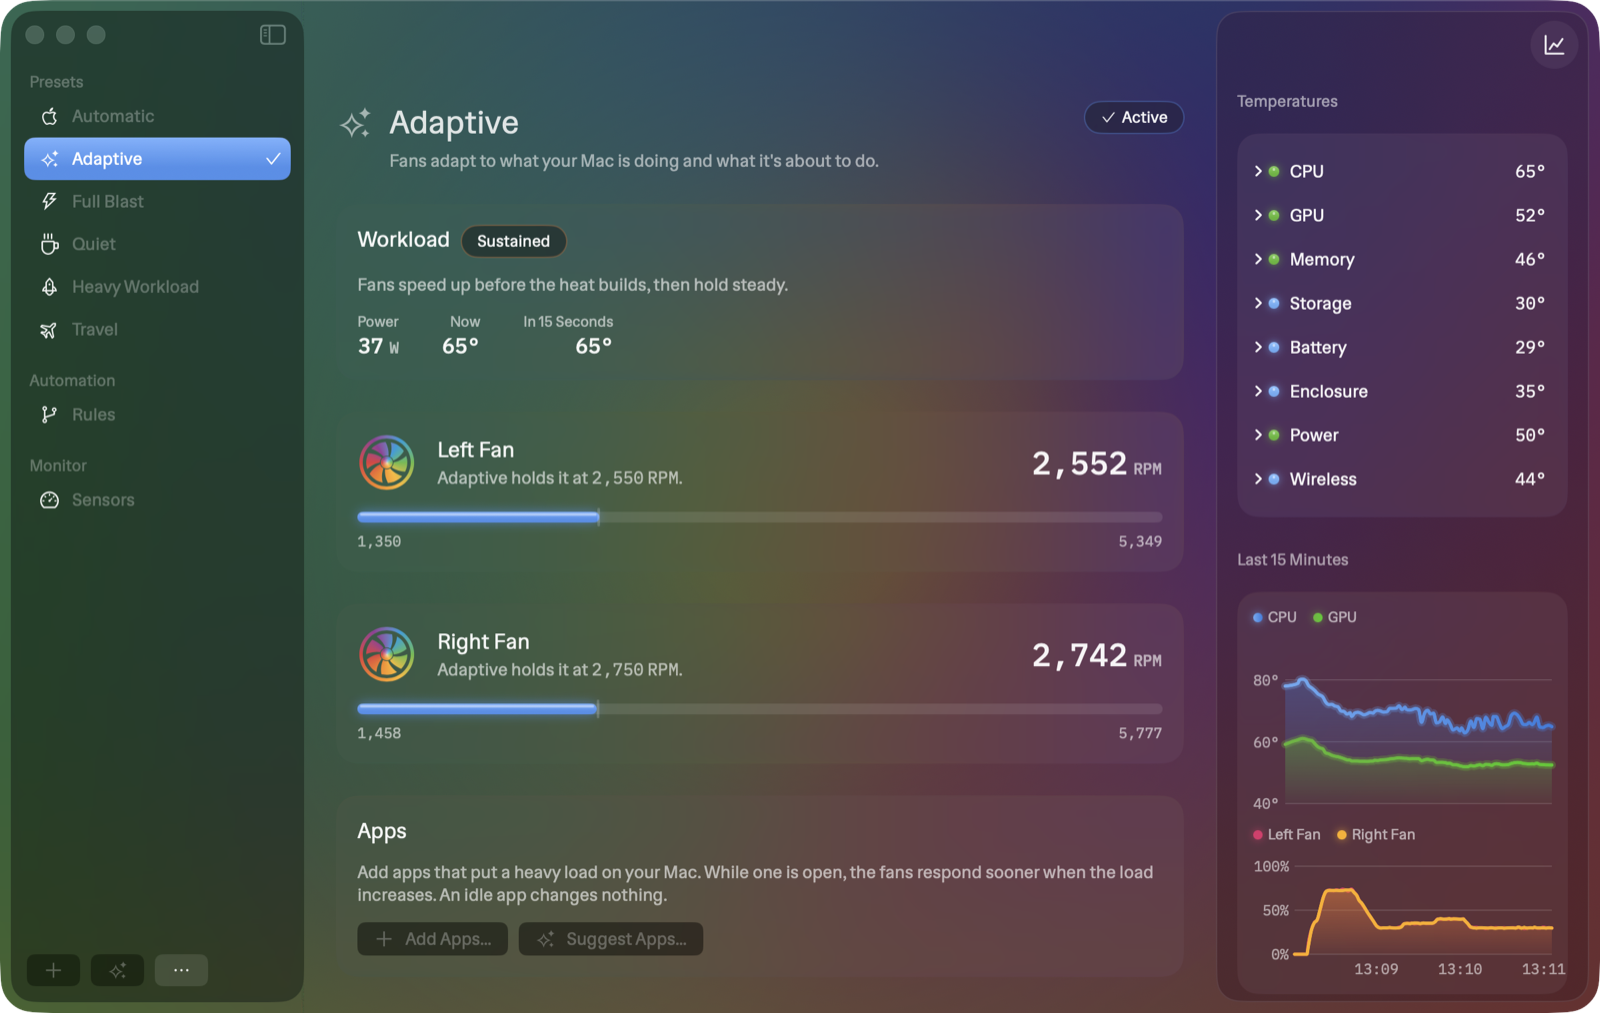
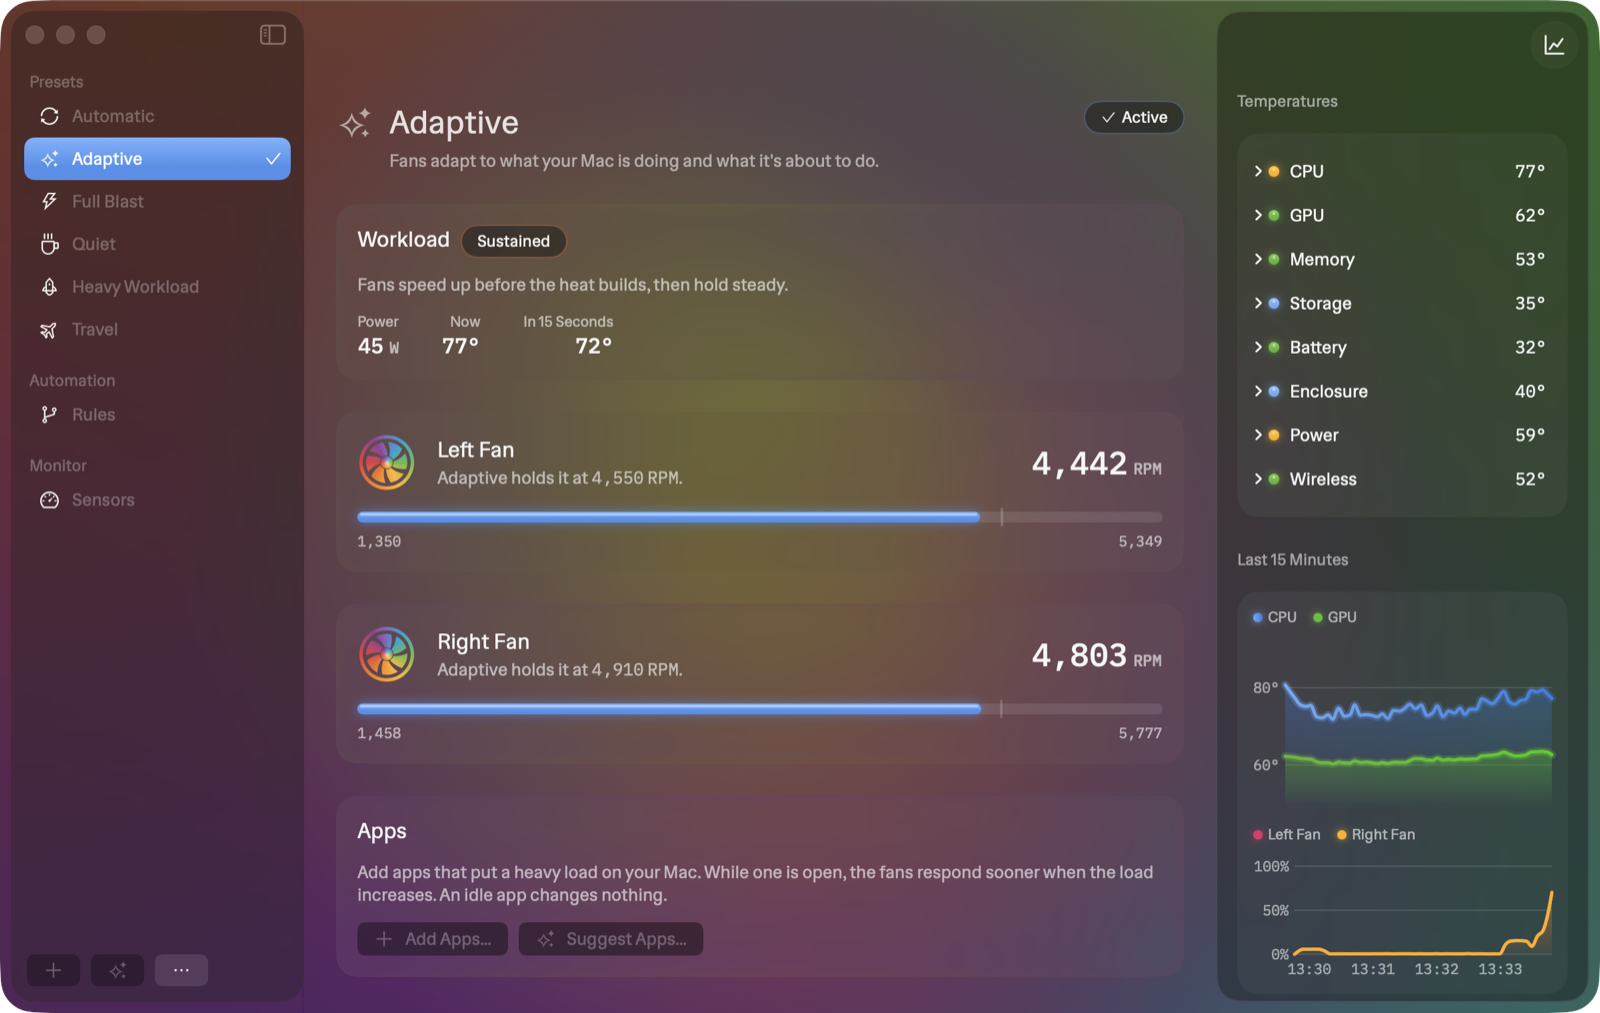
Take the README's pictures again, with Automatic's two arrows

diff --git a/README.md b/README.md
@@ -21,7 +21,7 @@ AirFlow requires macOS 26 or later and a Mac with Apple silicon.
 <p align="center">
   <img
     src="docs/images/adaptive.png"
-    alt="The AirFlow window on the Adaptive preset. Adaptive holds the left fan at 2,550 RPM and the right fan at 2,750 RPM for sustained work at 37 watts. The CPU is at 65 degrees, and AirFlow expects 65 degrees in 15 seconds. The sidebar lists six presets, and the readings panel shows a temperature for each part of the Mac and charts of the last 15 minutes."
+    alt="The AirFlow window on the Adaptive preset. Adaptive holds the left fan at 4,550 RPM and the right fan at 4,910 RPM for sustained work at 45 watts. The CPU is at 77 degrees, and AirFlow expects 72 degrees in 15 seconds. The sidebar lists six presets, and the readings panel shows a temperature for each part of the Mac and charts of the last 15 minutes."
     width="800"
   />
 </p>
@@ -30,7 +30,7 @@ AirFlow requires macOS 26 or later and a Mac with Apple silicon.
   <tr>
     <td width="33%">
       <a href="docs/images/preset-curve.png">
-        <img src="docs/images/preset-curve.png" alt="The Quiet preset. The left fan follows the CPU's average temperature on a curve from 70 degrees to full speed at 95. The CPU is at 68 degrees, below the start of the curve, so the fan is set to its minimum speed of 1,350 RPM" />
+        <img src="docs/images/preset-curve.png" alt="The Quiet preset. The left fan follows the CPU's average temperature on a curve from 70 degrees to full speed at 95. The CPU is at 77 degrees, and the fan is set to 2,500 RPM" />
       </a>
     </td>
     <td width="33%">
